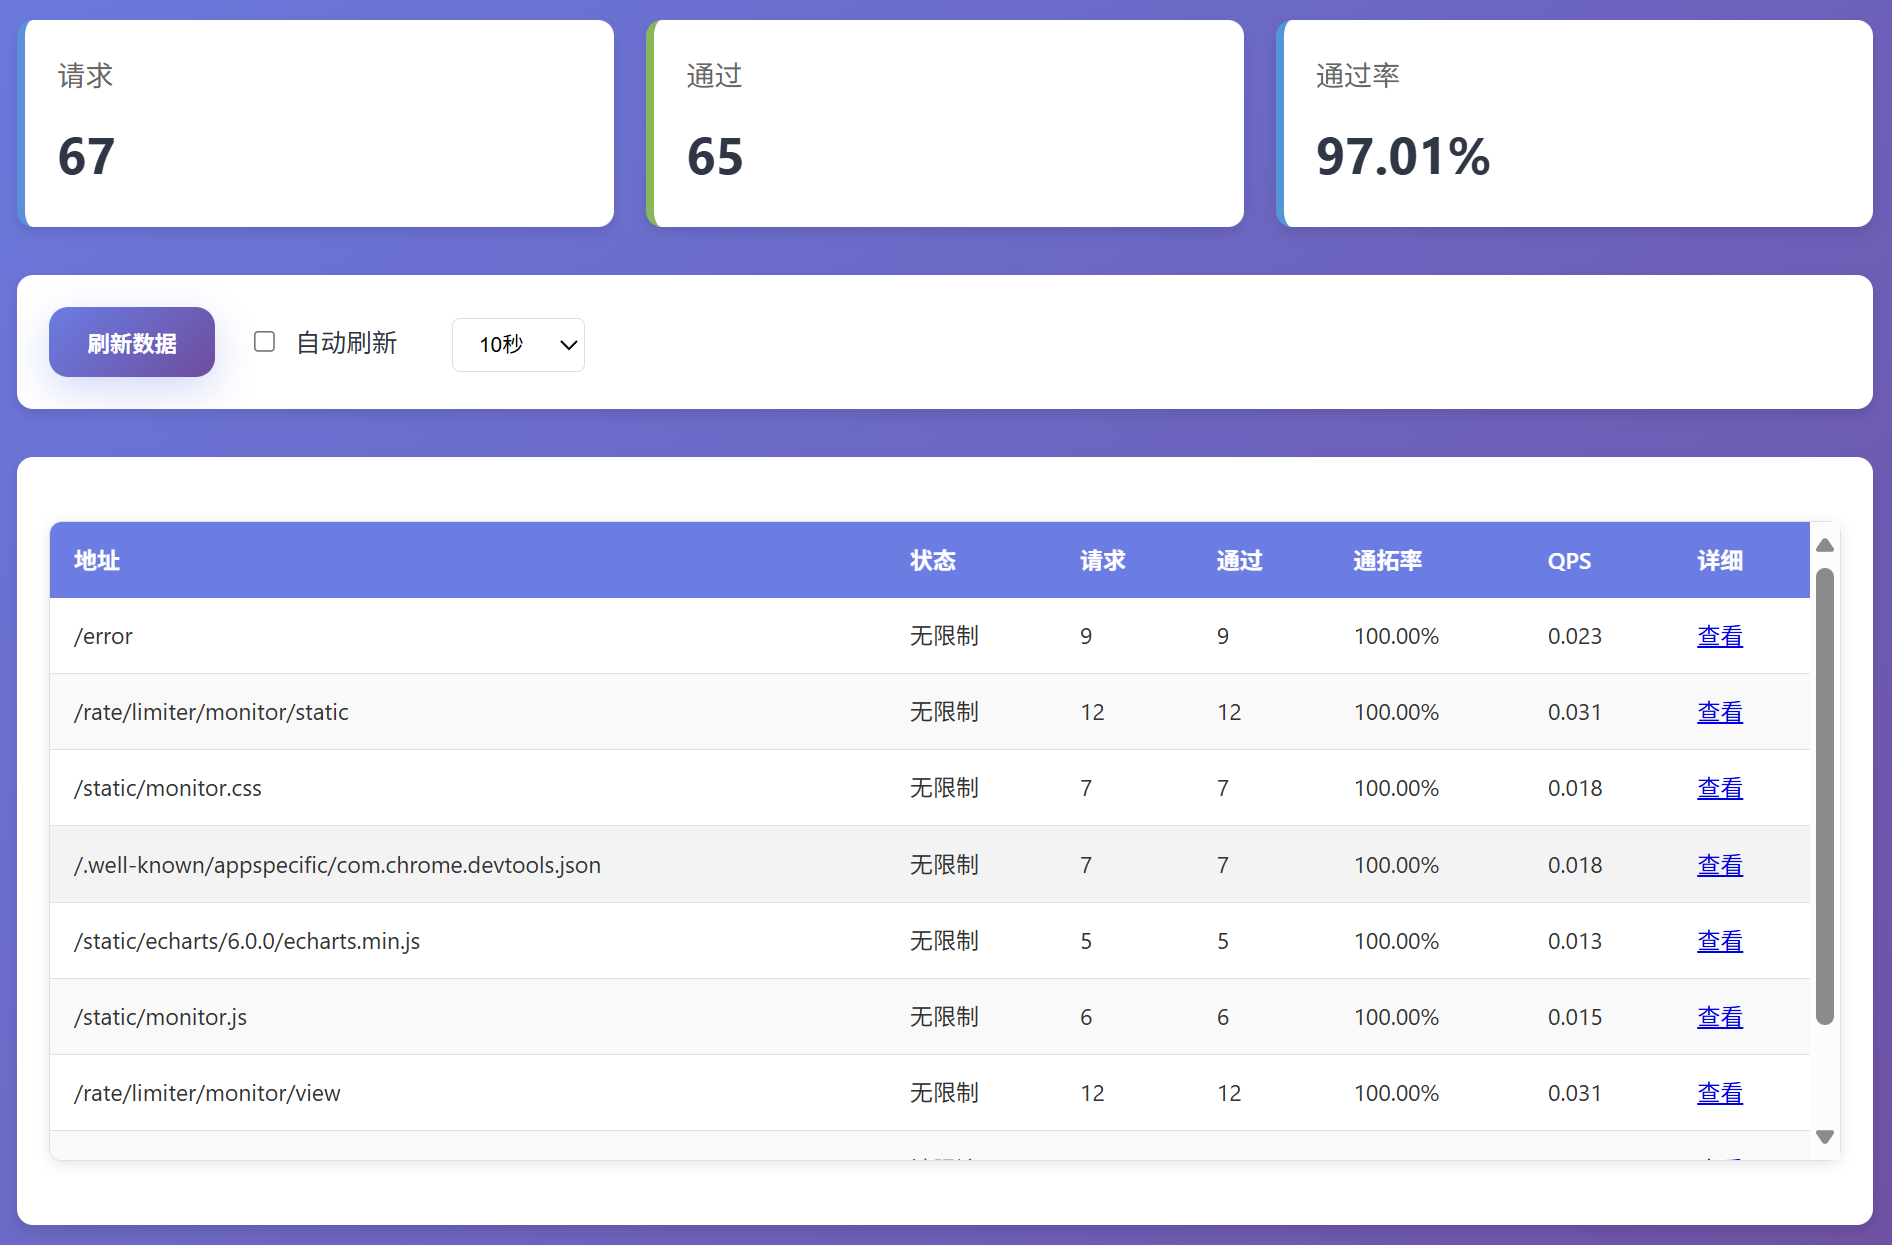
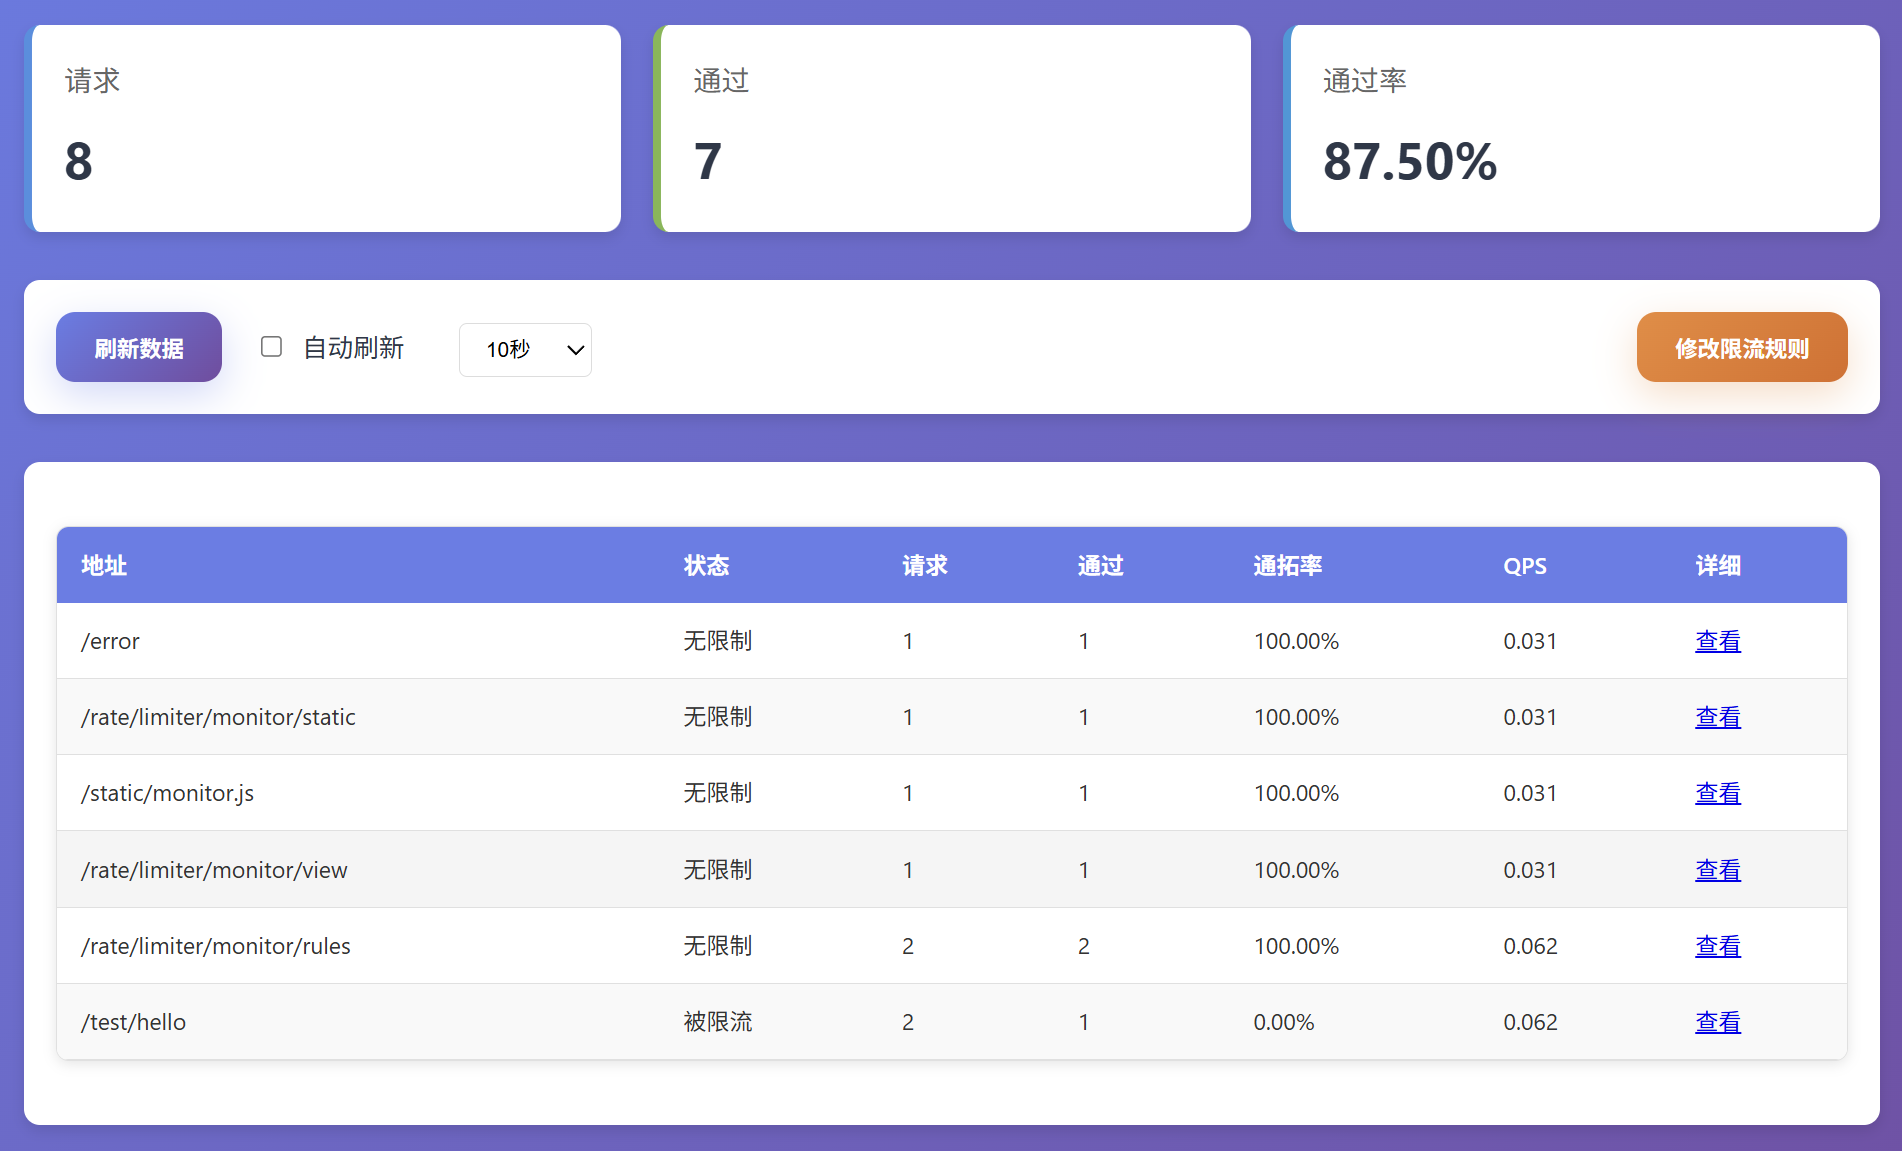
feat(monitor): 添加限流规则修改功能
- 在监控页面添加修改限流规则按钮
- 实现限流规则的获取、编辑和保存功能
- 添加 JSON格式化和验证功能
- 实现 Toast 通知消息

diff --git a/rate-limiter/src/main/resources/META-INF/resources/static/monitor.js b/rate-limiter/src/main/resources/META-INF/resources/static/monitor.js
@@ -28,7 +28,14 @@ document.addEventListener('DOMContentLoaded', function () {
     });
 
     // 关闭弹出框（点击 × 按钮）
-    document.querySelector(".close-btn").addEventListener("click", () => {
+    document.getElementById("close-modal").addEventListener("click", () => {
+        const modal = document.getElementById("modal");
+        modal.style.display = "none";
+    });
+
+    // 关闭弹出框（点击 × 按钮）
+    document.getElementById("close-modal1").addEventListener("click", () => {
+        const modal = document.getElementById("modal1");
         modal.style.display = "none";
     });
 
@@ -42,7 +49,6 @@ document.addEventListener('DOMContentLoaded', function () {
         width: windowWidth - 120,
         height: windowHeight - 120
     });
-    window.addEventListener('resize', () => myChart.resize());
 });
 
 function loadData() {
@@ -107,7 +113,7 @@ function updateTable(data) {
         tableHTML += `
                     <tr>
                         <td>${item.endpoint}</td>
-                        <td>${item.isRateLimiter ? "被限流":"无限制"}</td>
+                        <td>${item.isRateLimiter ? "被限流" : "无限制"}</td>
                         <td>${item.total.toLocaleString()}</td>
                         <td>${item.allowed.toLocaleString()}</td>
                         <td>${item.allowedRate.toFixed(2)}%</td>
@@ -130,9 +136,6 @@ function openModal(endpoint) {
     fetch('/rate/limiter/monitor/staticByEndpoint?endpoint=' + endpoint)
         .then(response => response.json())
         .then(data => {
-            const modal = document.getElementById("modal");
-            modal.style.display = 'block';
-
             // 指定图表的配置项和数据
             var option = {
                 title: {
@@ -158,8 +161,82 @@ function openModal(endpoint) {
 
             // 使用刚指定的配置项和数据显示图表。
             myChart.setOption(option);
+
+
+            const modal = document.getElementById("modal");
+            modal.style.display = 'block';
         })
         .catch(error => {
             console.error('加载数据失败:', error);
         })
+}
+
+function updateRules() {
+    fetch('/rate/limiter/monitor/rules')
+        .then(response => response.json())
+        .then(data => {
+            const rules = document.getElementById('rules');
+            rules.innerHTML = JSON.stringify(data,null,2)
+
+
+            const modal = document.getElementById("modal1");
+            modal.style.display = 'block';
+        })
+}
+
+// 格式化 JSON（自动缩进）
+function formatJSON() {
+    const textarea = document.getElementById('rules');
+    try {
+        const obj = JSON.parse(textarea.value);
+        textarea.value = JSON.stringify(obj,null,2); // 缩进 2 空格
+    } catch (e) {
+        showToast('❌ JSON 格式错误: ' + e.message);
+    }
+}
+
+// 验证 JSON 合法性
+function validateJSON() {
+    const textarea = document.getElementById('rules');
+    try {
+        const obj = JSON.parse(textarea.value);
+        console.log("保存的对象:", obj);
+
+        // 发送 POST 请求
+        fetch('/rate/limiter/monitor/rules', {
+            method: 'POST', // 指定请求方法
+            headers: {
+                'Content-Type': 'application/json', // 设置内容类型
+            },
+            body: JSON.stringify(obj) // 将数据转换为JSON字符串
+        })
+            .then(response => {
+                if (!response.ok) {
+                    throw new Error('网络响应不正常');
+                }
+                return response.json(); // 解析JSON响应
+            })
+            .then(data => {
+                const modal = document.getElementById("modal1");
+                modal.style.display = "none";
+                showToast('✅ 限流规则更新成功！');
+            })
+            .catch(error => {
+                console.error('错误:', error); // 处理错误
+            });
+
+    } catch (e) {
+        showToast('❌ JSON 格式错误: ' + e.message);
+    }
+}
+
+function showToast(message) {
+    var toast = document.getElementById("toast");
+    toast.innerHTML = message;
+    toast.className = "show";
+
+    // 3秒后自动关闭
+    setTimeout(function(){
+        toast.className = toast.className.replace("show", "");
+    }, 3000);
 }

diff --git a/rate-limiter/src/main/resources/monitor.html b/rate-limiter/src/main/resources/monitor.html
@@ -39,9 +39,9 @@
             <option value="30000">30秒</option>
             <option value="60000">1分钟</option>
         </select>
-<!--        <button class="btn btn-toggle">-->
-<!--            修改限流规则-->
-<!--        </button>-->
+        <button class="btn btn-toggle" onclick="updateRules()" style="float: right;">
+            修改限流规则
+        </button>
     </div>
 
     <!-- 方法调用统计表 -->
@@ -57,10 +57,24 @@
     <!-- 弹出框结构 -->
     <div id="modal" class="modal">
         <div class="modal-content">
-            <span class="close-btn">&times;</span>
+            <span class="close-btn" id="close-modal">&times;</span>
             <div id="main" style="margin-top: 20px;"></div>
         </div>
     </div>
+
+
+    <div id="modal1" class="modal">
+        <div class="modal-content">
+            <span class="close-btn" id="close-modal1">&times;</span>
+            <textarea id="rules" style="width: 100%; height: calc(100% - 70px);margin-top: 25px;"></textarea>
+            <div>
+                <button  class="btn" onclick="formatJSON()">格式化</button>
+                <button  class="btn" onclick="validateJSON()">验证并保存</button>
+            </div>
+        </div>
+    </div>
+
+    <div id="toast">这是一个Toast通知消息</div>
 </div>
 </body>
 </html>

diff --git a/rate-limiter/src/main/resources/META-INF/resources/static/monitor.css b/rate-limiter/src/main/resources/META-INF/resources/static/monitor.css
@@ -378,3 +378,34 @@ tbody tr:nth-child(even):hover {
         font-size: 14px;
     }
 }
+
+#toast {
+    visibility: hidden;
+    min-width: 250px;
+    background-color: #333;
+    color: #fff;
+    text-align: center;
+    border-radius: 2px;
+    padding: 16px;
+    position: fixed;
+    z-index: 1;
+    right: 30px;
+    top: 30px;
+    font-size: 17px;
+    z-index: 1000;
+}
+
+#toast.show {
+    visibility: visible;
+    animation: fadein 0.5s, fadeout 0.5s 2.5s;
+}
+
+@keyframes fadein {
+    from {top: 0; opacity: 0;}
+    to {top: 30px; opacity: 1;}
+}
+
+@keyframes fadeout {
+    from {top: 30px; opacity: 1;}
+    to {top: 0; opacity: 0;}
+}

diff --git a/rate-limiter-spring-boot-autoconfigure/src/main/java/cn/wubo/rate/limiter/autoconfigure/RateLimiterConfig.java b/rate-limiter-spring-boot-autoconfigure/src/main/java/cn/wubo/rate/limiter/autoconfigure/RateLimiterConfig.java
@@ -16,6 +16,7 @@ import org.springframework.boot.autoconfigure.condition.ConditionalOnMissingBean
 import org.springframework.boot.context.properties.EnableConfigurationProperties;
 import org.springframework.context.annotation.Bean;
 import org.springframework.context.annotation.EnableAspectJAutoProxy;
+import org.springframework.core.ParameterizedTypeReference;
 import org.springframework.core.io.ClassPathResource;
 import org.springframework.http.HttpStatus;
 import org.springframework.http.MediaType;
@@ -41,7 +42,7 @@ public class RateLimiterConfig implements WebMvcConfigurer {
 
     @Bean
     @ConditionalOnMissingBean
-    public IStorage simpleStorage(){
+    public IStorage simpleStorage() {
         return new SimpleStorage();
     }
 
@@ -60,7 +61,7 @@ public class RateLimiterConfig implements WebMvcConfigurer {
     }
 
     @Bean
-    public RateLimiterRuleManager rateLimitingRuleManager(RateLimiterProperties properties, IRateLimiter bucket,IStorage storage) {
+    public RateLimiterRuleManager rateLimitingRuleManager(RateLimiterProperties properties, IRateLimiter bucket, IStorage storage) {
         return new RateLimiterRuleManager(properties, bucket, storage);
     }
 
@@ -79,14 +80,19 @@ public class RateLimiterConfig implements WebMvcConfigurer {
     public RouterFunction<ServerResponse> methodTraceLogRouter(RateLimiterRuleManager ruleManager) {
         RouterFunctions.Builder builder = RouterFunctions.route();
         builder.GET("/rate/limiter/monitor/view", request -> ServerResponse.ok().contentType(MediaType.TEXT_HTML).body(new ClassPathResource(("/monitor.html"))));
-        builder.GET("/rate/limiter/monitor/static", request ->
-                ServerResponse.ok().contentType(MediaType.APPLICATION_JSON).body(ruleManager.getStatic())
-        );
+        builder.GET("/rate/limiter/monitor/static", request -> ServerResponse.ok().contentType(MediaType.APPLICATION_JSON).body(ruleManager.getStatic()));
         builder.GET("/rate/limiter/monitor/staticByEndpoint", request -> {
                     String endpoint = request.param("endpoint").orElseThrow(() -> new ResponseStatusException(HttpStatus.BAD_REQUEST, "endpoint is required"));
                     return ServerResponse.ok().contentType(MediaType.APPLICATION_JSON).body(ruleManager.getStaticByEndpoint(endpoint));
                 }
         );
+        builder.GET("/rate/limiter/monitor/rules", request -> ServerResponse.ok().contentType(MediaType.APPLICATION_JSON).body(ruleManager.getRules()));
+        builder.POST("/rate/limiter/monitor/rules", request -> {
+            List<RateLimiterProperties.RateLimitRule> rules = request.body(new ParameterizedTypeReference<>() {
+            });
+            return ServerResponse.ok().contentType(MediaType.APPLICATION_JSON).body(ruleManager.updateRules(rules));
+        });
+
         return builder.build();
     }
 }

diff --git a/rate-limiter/src/main/java/cn/wubo/rate/limiter/RateLimiterRuleManager.java b/rate-limiter/src/main/java/cn/wubo/rate/limiter/RateLimiterRuleManager.java
@@ -18,7 +18,6 @@ public class RateLimiterRuleManager {
     @Getter
     private List<RateLimiterProperties.RateLimitRule> rules;
     private final IRateLimiter bucket;
-    private final List<RateLimiterInfo> rateLimiterInfos;
     private Long systemStartTime;
     private final IStorage storage;
 
@@ -28,7 +27,6 @@ public class RateLimiterRuleManager {
     public RateLimiterRuleManager(RateLimiterProperties properties, IRateLimiter bucket, IStorage storage) {
         this.rules = properties.getRules();
         this.bucket = bucket;
-        this.rateLimiterInfos = new ArrayList<>();
         this.systemStartTime = System.currentTimeMillis();
         this.storage = storage;
         this.MATCHER = new AntPathMatcher();
@@ -54,11 +52,16 @@ public class RateLimiterRuleManager {
         return allow;
     }
 
-    public void updateRules(List<RateLimiterProperties.RateLimitRule> rules) {
+    public List<RateLimiterInfo> getAll() {
+        return storage.getAll();
+    }
+
+    public Boolean updateRules(List<RateLimiterProperties.RateLimitRule> rules) {
         bucket.clear();
         this.rules = rules;
         storage.clear();
         this.systemStartTime = System.currentTimeMillis();
+        return true;
     }
 
     public List<Map<String, Object>> getStatic() {

diff --git a/README.md b/README.md
@@ -32,7 +32,7 @@
 <dependency>
     <groupId>com.gitee.wb04307201.rate-limiter</groupId>
     <artifactId>rate-limiter-spring-boot-starter</artifactId>
-    <version>1.0.2</version>
+    <version>1.0.3</version>
 </dependency>
 ```
 
@@ -43,7 +43,7 @@
 ```yaml
 rate:
   limiter:
-    rate-limiting-type: standalone # 限流类型: redis单点 redis, redis集群 redis-cluster, redis哨兵 redis-sentinel, 单机 standalone
+    rate-limiting-type: standalone # 限流类型: redis单点 redis, redis集群 redis-cluster, redis哨兵 redis-sentinel, 单机 standalone(默认)
     rules:                         # 限流规则列表
       - endpoint: /api/test        # 接口路径
         limit: 10                  # 限流数量
@@ -95,7 +95,8 @@ rate:
 
 - 访问 `/rate/limiter/monitor/view` 查看监控页面
 ![img.png](img.png)
-- 
+![img_1.png](img_1.png)
+
 ## 扩展性
 
 项目设计具有良好的扩展性：
